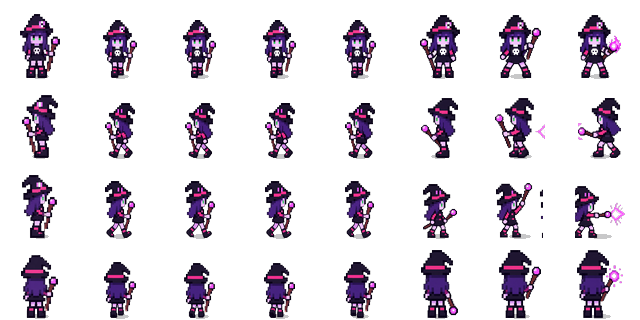
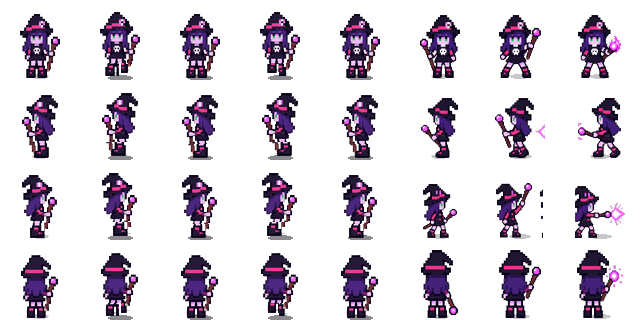
Fix Witch walk so she keeps her idle size and steps in place.
Walk frames were a smaller redraw, so starting to move shrank her and popped the silhouette. Rebuild the cycle from the idle pixels and step it from distance traveled.

diff --git a/src/heroes/NinjaBody.ts b/src/heroes/NinjaBody.ts
@@ -66,6 +66,9 @@ export class NinjaBody {
   private readonly art: Phaser.GameObjects.Graphics;
   private readonly spriteArt?: Phaser.GameObjects.Sprite;
   private lastStaffRaise = 0;
+  private witchMoving = false;
+  private witchWalkPx = 0;
+  private witchWalkAt = 0;
   private readonly sparks?: Phaser.GameObjects.Graphics;
   private readonly drawHero: HeroDrawFn;
   private readonly scene: Phaser.Scene;
@@ -1172,13 +1175,15 @@ export class NinjaBody {
     this.lastStaffRaise = options.staffRaise ?? 0;
     if (this.spriteArt) {
       this.art.clear();
-      applyWitchSprite(this.spriteArt, {
-        facing: options.facing,
-        attacking: options.attacking,
-        staffRaise: options.staffRaise,
-        hitFlash: options.hitFlash,
-        rival: this.rival,
-      });
+      if (options.attacking) {
+        applyWitchSprite(this.spriteArt, {
+          facing: options.facing,
+          attacking: true,
+          staffRaise: options.staffRaise,
+          hitFlash: options.hitFlash,
+          rival: this.rival,
+        });
+      }
       return;
     }
     this.drawHero(this.art, options);
@@ -1189,9 +1194,25 @@ export class NinjaBody {
     if (!figure) {
       return;
     }
+    const speed = this.body?.speed ?? 0;
+    const wantMove = this.present && !this.down && (speed > 26 || this.steer.length() > 0.28);
+    if (this.witchMoving) {
+      this.witchMoving = this.present && !this.down && (speed > 10 || this.steer.length() > 0.12);
+    } else {
+      this.witchMoving = wantMove;
+    }
+    if (this.witchMoving) {
+      if (this.witchWalkAt > 0 && now > this.witchWalkAt) {
+        this.witchWalkPx += speed * ((now - this.witchWalkAt) / 1000);
+      }
+      this.witchWalkAt = now;
+    } else {
+      this.witchWalkPx = 0;
+      this.witchWalkAt = 0;
+    }
     const bob =
-      now >= this.attackingUntil && this.present && !this.down
-        ? Math.sin(now / 240) * 1.1
+      !this.witchMoving && now >= this.attackingUntil && this.present && !this.down
+        ? Math.sin(now / 280) * 0.8
         : 0;
     figure.setPosition(this.art.x, this.art.y + WITCH_FEET_Y + bob);
     figure.setRotation(this.art.rotation);
@@ -1207,11 +1228,10 @@ export class NinjaBody {
       });
       return;
     }
-    const speed = this.body?.speed ?? 0;
-    const moving = this.present && !this.down && (speed > 22 || this.steer.length() > 0.22);
     applyWitchSprite(figure, {
       facing: this.facing,
-      moving,
+      moving: this.witchMoving,
+      walkFrame: Math.floor(this.witchWalkPx / 14) % 4,
       hitFlash: this.status.isFlashingHit(now),
       rival: this.rival,
       now,

diff --git a/src/heroes/witchSprite.ts b/src/heroes/witchSprite.ts
@@ -22,6 +22,7 @@ export type WitchSpritePose = {
   hitFlash?: boolean;
   rival?: boolean;
   moving?: boolean;
+  walkFrame?: number;
   now?: number;
 };
 
@@ -51,7 +52,7 @@ export const witchFrameIndex = (pose: WitchSpritePose): number => {
     const raise = pose.staffRaise ?? 0;
     col = raise < 0.34 ? 5 : raise < 0.72 ? 6 : 7;
   } else if (pose.moving) {
-    col = 1 + (Math.floor((pose.now ?? 0) / 120) % 4);
+    col = 1 + ((pose.walkFrame ?? 0) % 4);
   }
   return row * WITCH_COLS + col;
 };
